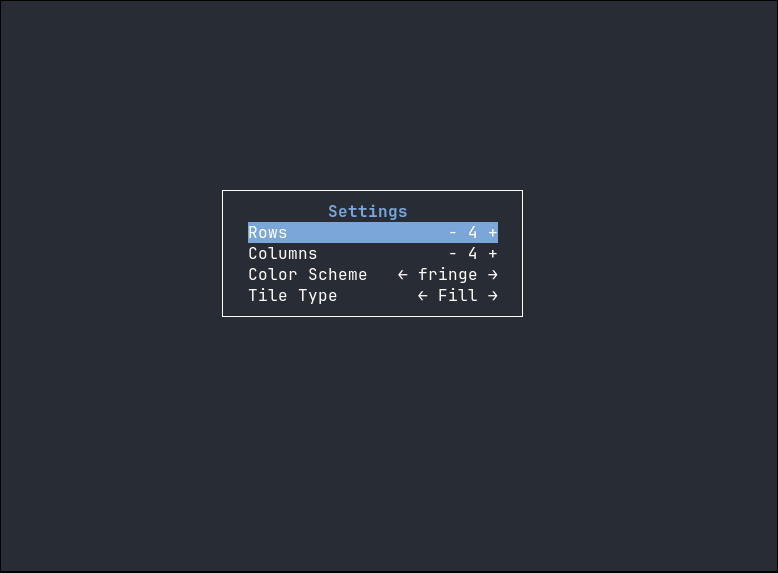
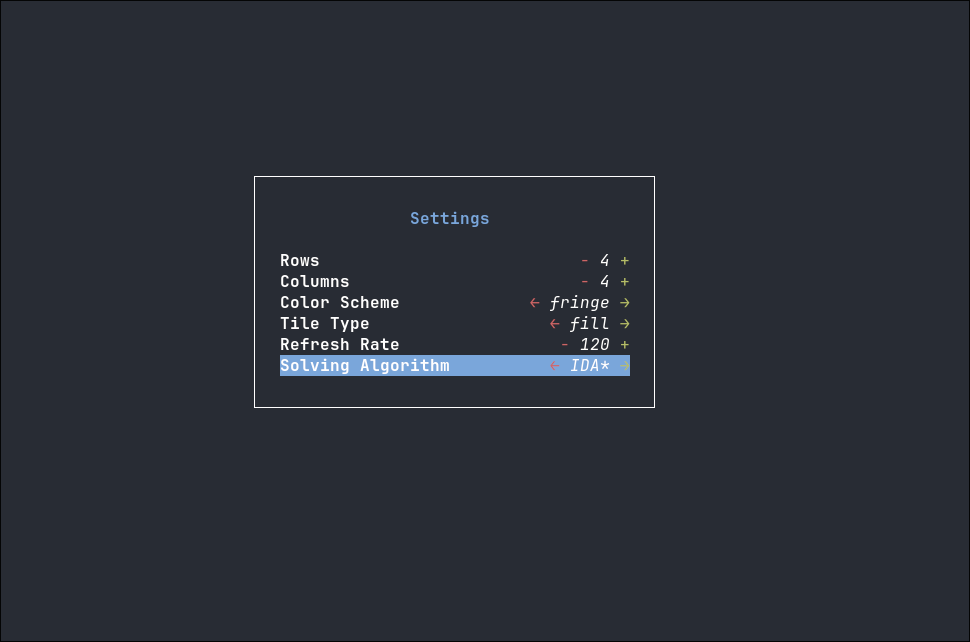
rahh

Changed region(s): [[0.2776, 0.3264, 0.6787, 0.5934], [0.2776, 0.623, 0.6787, 0.6527], [0.6478, 0.267, 0.6787, 0.2967]]

diff --git a/README.md b/README.md
@@ -1,17 +1,18 @@
 # 15PuzzleTUI (15p)
 
-> I'm either gonna learn Haskell or die trying (I am currently on the brink of death)
+> I'm either gonna learn Haskell or die trying (I am currently in purgatory)
 
 Shout out to [this](https://github.com/benjaminselfridge/fifteen) because it was made first lol.
 
-This project is a terminal based implementation of the 15 Puzzle game. It
-features a simple TUI built with
-[brick](https://hackage.haskell.org/package/brick) and allows input from
-keyboard or mouse. You can freely customize the color scheme and size of the
-puzzle in the settings. The game also saves your top 5 times into a local file
-(On linux it is commonly `~/.local/share/15p/leaderboards/`).
+This project is a terminal based implementation of the [15
+Puzzle](https://en.wikipedia.org/wiki/15_puzzle) game. It features a simple TUI
+built with [brick](https://hackage.haskell.org/package/brick) and allows input
+from keyboard or mouse. You can freely customize the color scheme, size of the
+grid and tile type in the settings. The game also saves your top 5 times for
+each grid size into a local file (On linux it is commonly
+`~/.local/share/15p/leaderboards/`). 
 
-## Build & Run From Source
+## Build From Source
 
 *This project uses [cabal](https://www.haskell.org/cabal/) to build haskell files.*
 
@@ -25,12 +26,24 @@ Or if you want to install the binary to your path permanently
 cabal install
 ```
 
-## Run
+## Install & Run
 
-Currently it is only a tui so there is no available flags like `-h` or `-v`.
 Download the latest release from the [releases
 page](https://github.com/theme222/15PuzzleTUI/releases) and run it on the
-command line by simply typing `./15p`.
+command line
+
+```sh
+./15p
+```
+
+### Supported flags
+
+```sh
+-h, --help           Show this help menu
+-v, --version        Show the current version
+-s, --size INT       Specify the starting grid size
+           INTxINT   Examples: 4 5x2 3x3
+```
 
 ## Gallery
 
@@ -39,3 +52,45 @@ These images were taken in game on the [Ghostty](https://ghostty.org/) terminal 
 ![Game](https://github.com/theme222/15PuzzleTUI/blob/main/images/game.png)
 
 ![Settings](https://github.com/theme222/15PuzzleTUI/blob/main/images/settings.png)
+
+## Internals
+
+### Shuffling
+
+This puzzle shuffles any nxm board perfectly randomly using the identity [in which
+the parity of the permutation must be even](https://en.wikipedia.org/wiki/15_puzzle#:~:text=In%20particular%2C%20if%20the%20empty%20square%20is%20in%20the%20lower%20right%20corner%2C%20then%20the%20puzzle%20is%20solvable%20only%20if%20the%20permutation%20of%20the%20remaining%20pieces%20is%20even%2E)
+when the empty square is in the lower right corner. It then randomizes the
+position of the empty square afterwords to generate the final shuffled board.
+
+### Solvers
+
+The program contains a total of 2 solving algorithms accessable by pressing `h` in game.
+Press `m` to head into the settings to switch between the two.
+
+#### IDA*
+
+Internally [Iterative Deepening A*](https://en.wikipedia.org/wiki/Iterative_deepening_A*) is implemented with
+the heuristic of `Manhattan distance + Linear Conflict`. This allows the
+algorithm to find the guaranteed shortest path to the goal state. However this
+algorithm struggles with board sizes with more than 15 tiles due to the
+nature of the exponentially branching nodes of possible paths.
+
+#### Fringe-Solve
+
+Fringe-Solve is a simple algorithm based on the [fringe solving method](https://www.youtube.com/shorts/yCxhqQs_u3g) that
+solves the rows and columns from the top left to the bottom right. It doesn't
+guarantee the shortest path (it is actually quite far from it) but it will find
+this path much faster with a more intuitive path than `IDA*`. 
+
+### Input Detection
+
+Mouse input detection will only work if the terminal supports sending mouse
+events. There is weird quirk in which different terminals send mouse events with
+different intervals. Currently I have noticed that the
+[kitty](https://sw.kovidgoyal.net/kitty/) terminal emulator sends mouse events
+at a much faster rate than other terminals, causing previous releases to lag
+having to deal with too many inputs (Since the state of the output was directly
+tied to the changes in input events.) This has since been fixed by only updating
+the output with a constant refresh rate that can be changed in the settings.
+This can actually be helpful if you want to guarantee that none of your mouse
+swipes will be skipped.